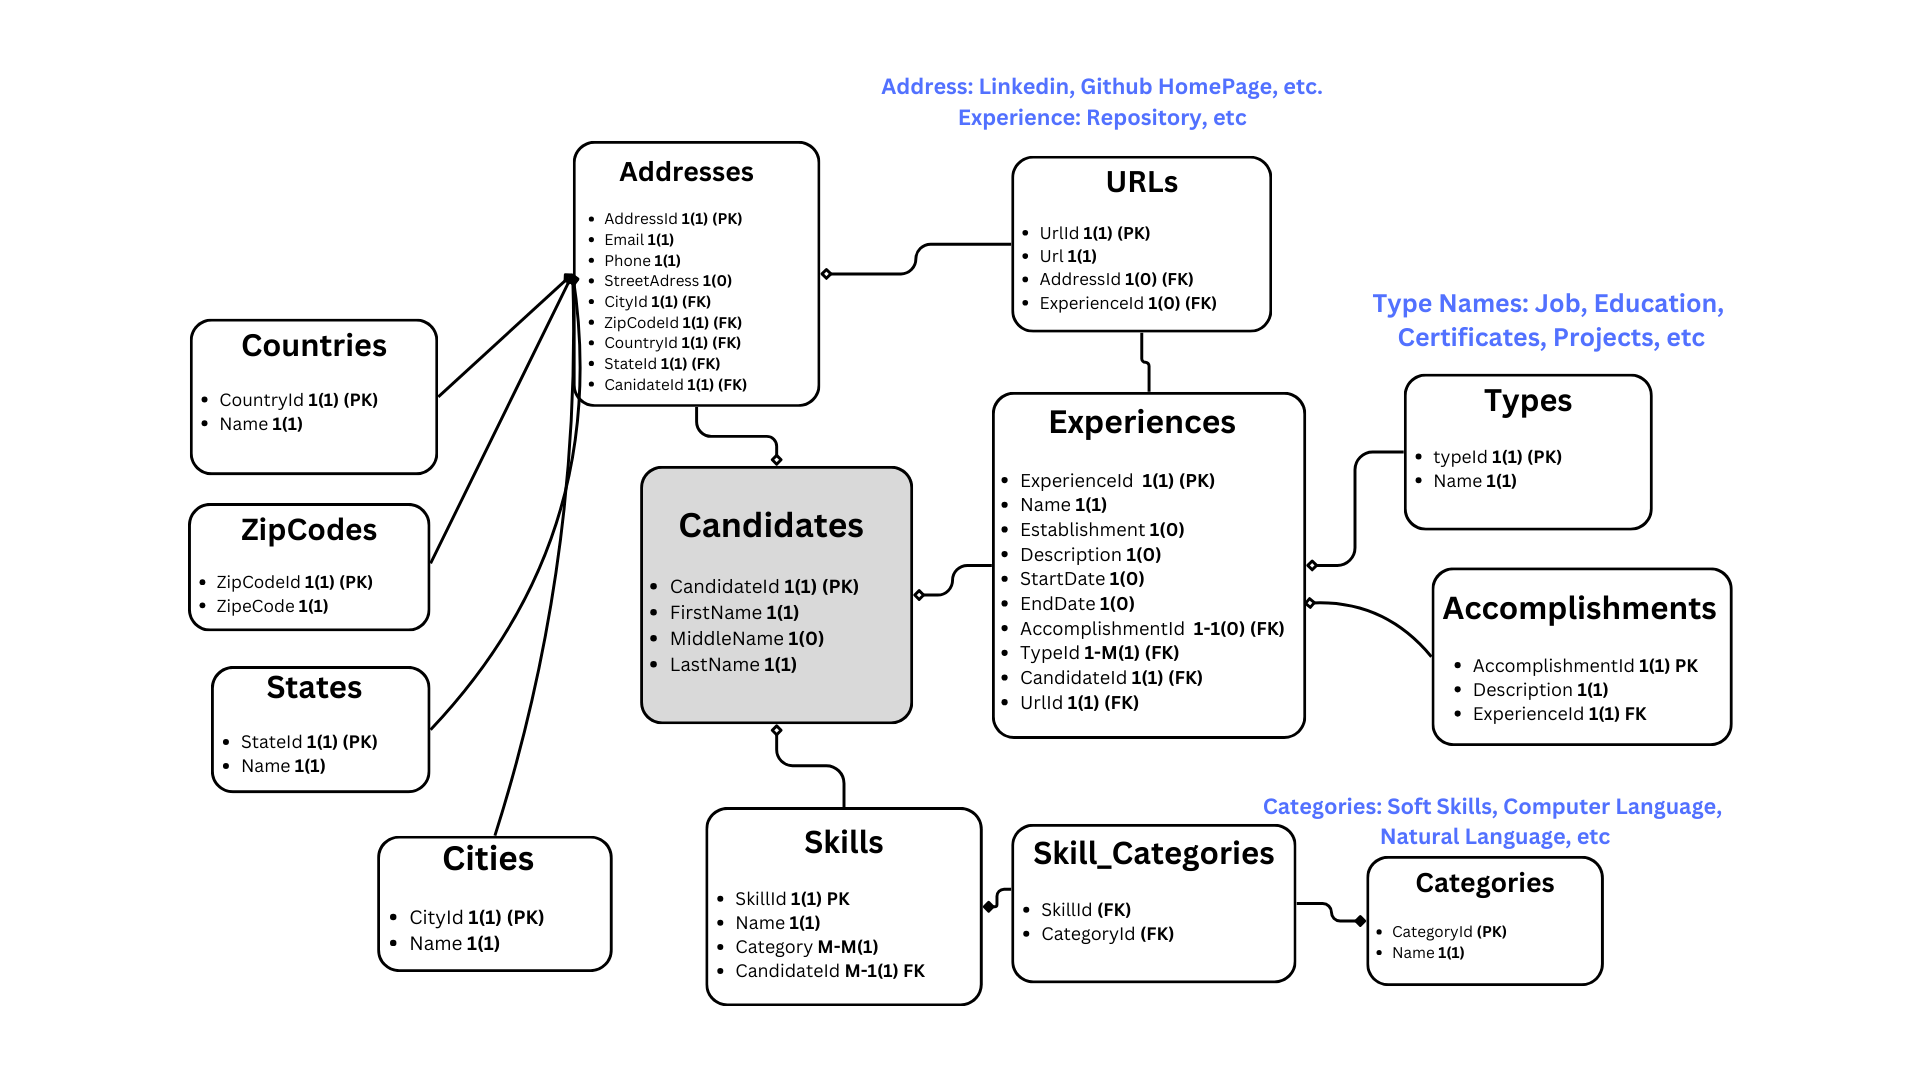
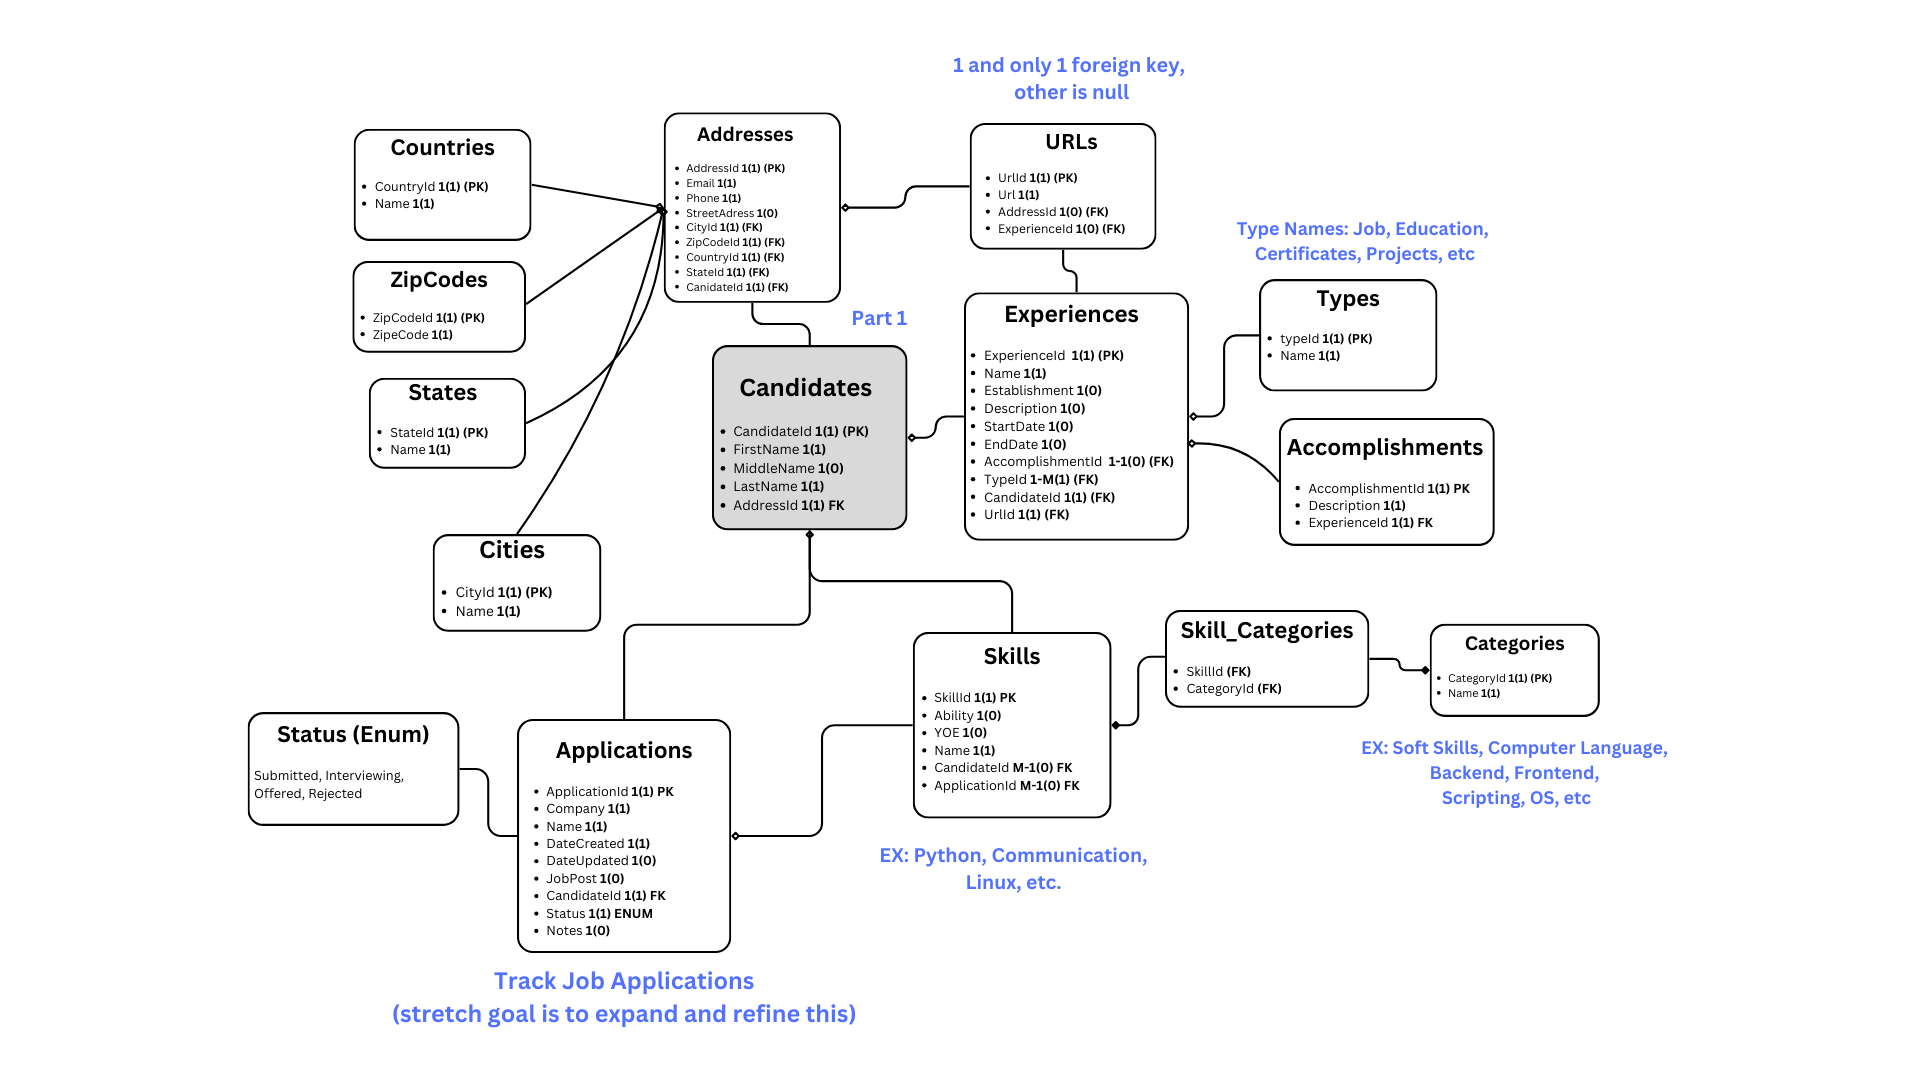
finished drafting DB and ready to start building

diff --git a/README.md b/README.md
@@ -4,7 +4,8 @@
 > 
 > **Tools:** Java Spring Boot (REST), Docker, PostgresSQL
 > 
-> **TBD Goals:** Front End framework selection, Python or Node to make PDF (either with a library or as a microservice)
+> **TBD Goals:** Front End framework selection, Python or Node to make PDF (either with a library or as a microservice), ChatGPT integration to help match skills, Deployment to cloud
 
 ## Draft of Relational Database Design:
 ![Database Diagram](./src/main/resources/JobTailorDatabaseDiagram.png)
+
